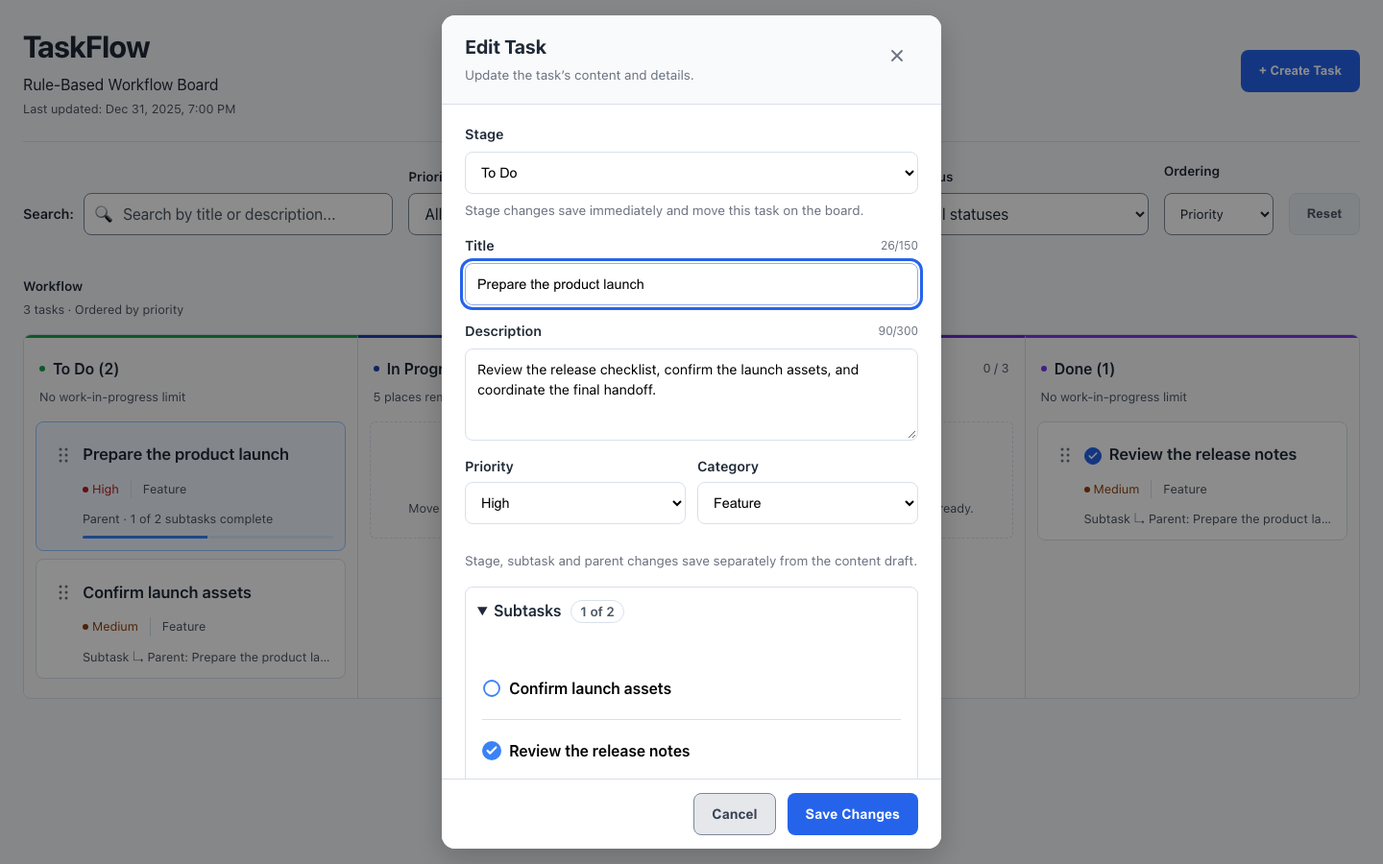
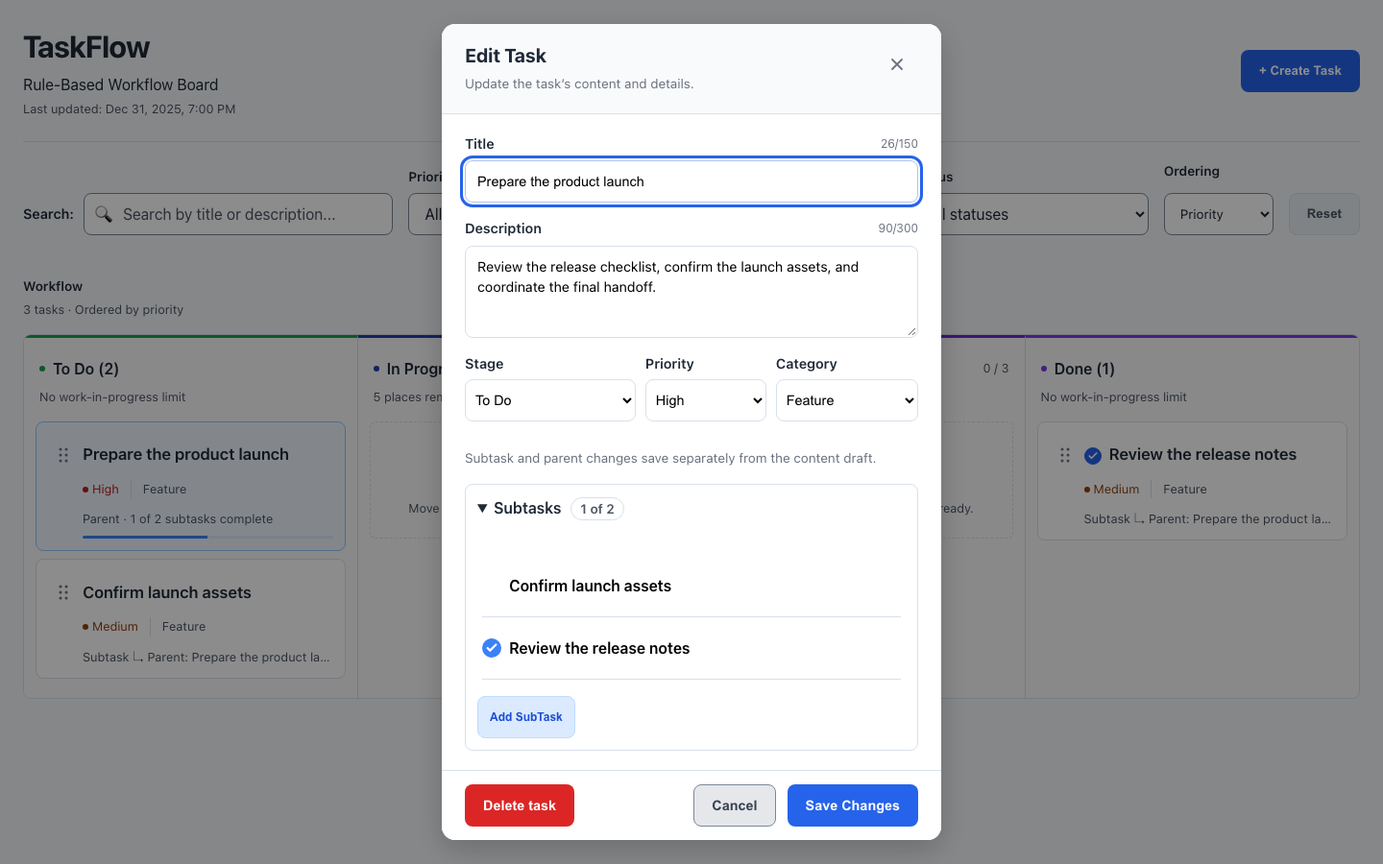
style: simplify task details and compact editor actions

Changed region(s): [[0.3125, 0.5289, 0.6875, 0.9956], [0.3125, 0.1556, 0.6875, 0.4667], [0.3125, 0.0, 0.6875, 0.1244]]

diff --git a/src/components/TaskDetails/TaskDetails.test.tsx b/src/components/TaskDetails/TaskDetails.test.tsx
@@ -72,23 +72,27 @@ it("shows the complete long child list without truncating relationship names", a
   expect(detail.getByRole("button",{name:`Open subtask Child 29 ${"x".repeat(130)}`})).toBeInTheDocument();
 });
 
-it("changes stages inside details, retains relationship rules and restores completion marks", async () => {
+it("changes stages in editing, retains relationship rules and restores completion marks", async () => {
   const user = userEvent.setup();
   render(<Harness tasks={[{...parent, status:"in-review"}, child]}/>);
   await user.click(screen.getByRole("button",{name:"Open task Release plan"}));
+  await user.click(screen.getByRole("button",{name:"Edit task"}));
   await user.selectOptions(screen.getByLabelText("Stage"),"done");
   expect(screen.getByLabelText("Stage")).toHaveValue("in-review");
-  expect(screen.getByRole("dialog",{name:"Release plan"})).toHaveTextContent("Finish these subtasks");
-  await user.click(screen.getByRole("button",{name:"Open subtask Review release"}));
+  expect(screen.getByRole("dialog",{name:"Edit Task"})).toHaveTextContent("Finish these subtasks");
+  await user.click(screen.getByRole("button",{name:"Close task editor"}));
+  await user.click(screen.getByRole("button",{name:"Open task Review release"}));
+  await user.click(screen.getByRole("button",{name:"Edit task"}));
   for(const stage of ["in-progress","in-review","done"]) await user.selectOptions(screen.getByLabelText("Stage"),stage);
   expect(screen.getByLabelText("Stage")).toHaveValue("done");
   await user.selectOptions(screen.getByLabelText("Stage"),"todo");
   expect(screen.getByLabelText("Stage")).toHaveValue("done");
   await user.click(screen.getByRole("button",{name:"Open parent Release plan"}));
   expect(screen.getByRole("img",{name:"Completed subtask"})).toHaveClass("is-complete");
+  await user.click(screen.getByRole("button",{name:"Edit task"}));
   await user.selectOptions(screen.getByLabelText("Stage"),"done");
   expect(screen.getByLabelText("Stage")).toHaveValue("done");
-  await user.click(screen.getByRole("button",{name:"Close task details"}));
+  await user.click(screen.getByRole("button",{name:"Close task editor"}));
   expect(screen.getByRole("article",{name:"Review release"}).querySelector(".completion-mark.is-complete")).toBeInTheDocument();
   expect(screen.queryByLabelText("Movement actions for Release plan")).not.toBeInTheDocument();
 });
@@ -104,16 +108,17 @@ it("the editor × keeps the same safe draft cancellation as Escape", async () =>
   await user.click(screen.getByRole("button",{name:"Discard"}));
   expect(screen.getByRole("button",{name:"Open task Release plan"})).toHaveFocus();
 });
-it("detail stage changes cannot bypass capacity when search hides the occupants", async () => {
+it("editor stage changes cannot bypass capacity when search hides the occupants", async () => {
   const user=userEvent.setup();
   const full=Array.from({length:5},(_,i)=>makeTask({id:`full-${i}`,title:`Occupant ${i}`,status:"in-progress"}));
   render(<Harness tasks={[parent,child,...full]}/>);
   await user.type(screen.getByLabelText("Search:"),"Review release");
   await user.click(screen.getByRole("button",{name:"Open task Review release"}));
+  await user.click(screen.getByRole("button",{name:"Edit task"}));
   await user.selectOptions(screen.getByLabelText("Stage"),"in-progress");
   expect(screen.getByLabelText("Stage")).toHaveValue("todo");
-  expect(screen.getByRole("dialog",{name:"Review release"})).toHaveTextContent("in-progress is full (5-task limit)");
-  await user.click(screen.getByRole("button",{name:"Close task details"}));
+  expect(screen.getByRole("dialog",{name:"Edit SubTask"})).toHaveTextContent("in-progress is full (5-task limit)");
+  await user.click(screen.getByRole("button",{name:"Close task editor"}));
   expect(screen.getByRole("region",{name:"in-progress (5)"})).toHaveTextContent("0 shown · 5 total");
 });
 
@@ -137,4 +142,18 @@ it("uses one parent badge in details and editing and moves from the editor witho
   expect(screen.getByLabelText("Title")).toHaveValue("Review release draft");
   await user.click(screen.getByRole("button",{name:"Save Changes"}));
   expect(within(screen.getByRole("region",{name:"in-progress (1)"})).getByRole("button",{name:"Open task Review release draft"})).toBeInTheDocument();
+});
+it("keeps details read-only, marks only completed children and groups editor controls/actions", async () => {
+  const user=userEvent.setup();render(<Harness tasks={[parent,child,makeTask({id:"finished",title:"Finished child",parentId:parent.id,status:"done"})]}/>);
+  await user.click(screen.getByRole("button",{name:"Open task Release plan"}));
+  const detail=within(screen.getByRole("dialog",{name:"Release plan"}));
+  expect(detail.queryByRole("combobox")).not.toBeInTheDocument();
+  expect(detail.getAllByRole("img",{name:"Completed subtask"})).toHaveLength(1);
+  expect(detail.queryByRole("img",{name:"Incomplete subtask"})).not.toBeInTheDocument();
+  await user.click(detail.getByRole("button",{name:"Edit task"}));
+  const editor=within(screen.getByRole("dialog",{name:"Edit Task"}));
+  expect(editor.getAllByRole("combobox").map(control=>(control as HTMLSelectElement).labels?.[0].textContent)).toEqual(["Stage","Priority","Category"]);
+  const footer=editor.getByRole("button",{name:"Save Changes"}).closest(".create-task-actions")!;
+  expect(within(footer as HTMLElement).getAllByRole("button").map(button=>button.textContent)).toEqual(["Delete task","Cancel","Save Changes"]);
+  expect(editor.queryByText("Stage changes save immediately and move this task on the board.")).not.toBeInTheDocument();
 });

diff --git a/e2e/details.spec.ts b/e2e/details.spec.ts
@@ -79,22 +79,27 @@ test("compact task creation keeps actions reachable and × protects an unfinishe
   }
 });
 
-test("stage selection lives in details, blocks incomplete parents and retains completed-child marks",async({page})=>{
+test("stage selection lives in editing, blocks incomplete parents and retains completed-child marks",async({page})=>{
   const parent=makeTask({id:"stage-parent",title:"Stage parent",status:"in-review"});
   const child=makeTask({id:"stage-child",title:"Stage child",parentId:parent.id});
   await page.goto("/");await page.evaluate(raw=>localStorage.setItem("taskflow-board",raw),currentBoardRaw(makeBoard([parent,child])));await page.reload();
   const stage=page.getByLabel("Workflow stage",{exact:true});if(await stage.count())await stage.selectOption("in-review");
   await page.getByRole("button",{name:"Open task Stage parent",exact:true}).click();
+  await page.getByRole("button",{name:"Edit task",exact:true}).click();
   await page.getByLabel("Stage",{exact:true}).selectOption("done");
   await expect(page.getByLabel("Stage",{exact:true})).toHaveValue("in-review");
-  await expect(page.getByRole("dialog",{name:"Stage parent",exact:true})).toContainText("Finish these subtasks");
-  await page.getByRole("button",{name:"Open subtask Stage child",exact:true}).click();
+  await expect(page.getByRole("dialog",{name:"Edit Task",exact:true})).toContainText("Finish these subtasks");
+  await page.getByRole("button",{name:"Close task editor",exact:true}).click();
+  if(await stage.count())await stage.selectOption("todo");
+  await page.getByRole("button",{name:"Open task Stage child",exact:true}).click();
+  await page.getByRole("button",{name:"Edit task",exact:true}).click();
   for(const status of ["in-progress","in-review","done"])await page.getByLabel("Stage",{exact:true}).selectOption(status);
   await page.getByRole("button",{name:"Open parent Stage parent",exact:true}).click();
   await expect(page.getByRole("img",{name:"Completed subtask",exact:true})).toHaveClass(/is-complete/);
+  await page.getByRole("button",{name:"Edit task",exact:true}).click();
   await page.getByLabel("Stage",{exact:true}).selectOption("done");
   await expect(page.getByLabel("Stage",{exact:true})).toHaveValue("done");
-  await page.getByRole("button",{name:"Close task details",exact:true}).click();
+  await page.getByRole("button",{name:"Close task editor",exact:true}).click();
   await expect(page.locator(".task-movement-actions")).toHaveCount(0);
   await page.reload();if(await stage.count())await stage.selectOption("done");
   await expect(page.getByRole("button",{name:"Open task Stage child",exact:true}).locator(".completion-mark.is-complete")).toHaveCount(1);
@@ -130,4 +135,33 @@ test("parent context is consistent and editor stage changes move saved work with
   await expect(page.getByRole("group",{name:"Move task Edited consistent child, in-progress",exact:true})).toBeVisible();
   await page.reload();const stage=page.getByLabel("Workflow stage",{exact:true});if(await stage.count())await stage.selectOption("in-progress");
   await expect(page.getByRole("group",{name:"Move task Edited consistent child, in-progress",exact:true})).toBeVisible();
+});
+
+test("read-only details and compact editor rows remain aligned on desktop and narrow mobile",async({page})=>{
+  const parent=makeTask({id:"row-parent",title:"Aligned parent"});
+  const child=makeTask({id:"row-child",title:"Pending child",parentId:parent.id});
+  const done=makeTask({id:"row-done",title:"Finished child",parentId:parent.id,status:"done"});
+  await page.goto("/");await page.evaluate(raw=>localStorage.setItem("taskflow-board",raw),currentBoardRaw(makeBoard([parent,child,done])));await page.reload();
+  for(const [width,height] of [[1440,900],[390,844],[375,667],[320,568]]) {
+    await page.setViewportSize({width,height});
+    await page.getByRole("button",{name:"Open task Aligned parent",exact:true}).click();
+    const detail=page.getByRole("dialog",{name:"Aligned parent",exact:true});
+    await expect(detail.getByRole("combobox")).toHaveCount(0);
+    await expect(detail.getByRole("img",{name:"Completed subtask",exact:true})).toHaveCount(1);
+    await expect(detail.getByRole("img",{name:"Incomplete subtask",exact:true})).toHaveCount(0);
+    await expect(detail.locator(".completion-placeholder")).toHaveCount(1);
+    await detail.getByRole("button",{name:"Edit task",exact:true}).click();
+    const editor=page.getByRole("dialog",{name:"Edit Task",exact:true});
+    const fields=editor.locator(".task-form-select-row select");
+    await expect(fields).toHaveCount(3);
+    const fieldRects=await fields.evaluateAll(nodes=>nodes.map(node=>({top:node.getBoundingClientRect().top,right:node.getBoundingClientRect().right})));
+    expect(Math.max(...fieldRects.map(r=>r.top))-Math.min(...fieldRects.map(r=>r.top))).toBeLessThan(1);
+    expect(fieldRects.every(rect=>rect.right<=width)).toBe(true);
+    const buttons=editor.locator(".create-task-actions button");await expect(buttons).toHaveText(["Delete task","Cancel","Save Changes"]);
+    const tops=await buttons.evaluateAll(nodes=>nodes.map(node=>node.getBoundingClientRect().top));
+    expect(Math.max(...tops)-Math.min(...tops)).toBeLessThan(1);
+    await expect(editor.getByText("Stage changes save immediately and move this task on the board.",{exact:true})).toHaveCount(0);
+    await editor.getByRole("button",{name:"Close task editor",exact:true}).click();
+    expect(await page.evaluate(()=>document.documentElement.scrollWidth<=innerWidth)).toBe(true);
+  }
 });

diff --git a/src/components/TaskDetails/TaskDetails.tsx b/src/components/TaskDetails/TaskDetails.tsx
@@ -1,5 +1,5 @@
 import { useId, useRef, useState, type ReactNode } from "react";
-import { taskStatuses, type TaskStatus, type Task } from "../../domain/task/Task";
+import { type TaskStatus, type Task } from "../../domain/task/Task";
 import { findTask, getChildren, getChildProgress, getParent } from "../../domain/board/taskRelationships";
 import { useModalFocus } from "../../accessibility/useModalFocus";
 import TaskForm, { type TaskFormProps } from "../TaskForm/TaskForm";
@@ -10,7 +10,6 @@ import "../TaskForm/TaskForm.css";
 import "./TaskDetails.css";
 import CloseButton from "../ui/CloseButton/CloseButton";
 import CompletionMark from "../ui/CompletionMark/CompletionMark";
-import { isTaskStatus } from "../../utils/typeGuards";
 import type { BoardOperationError } from "../../domain/board/boardValidation";
 
 const stages = { todo: "To Do", "in-progress": "In Progress", "in-review": "In Review", done: "Done" };
@@ -20,7 +19,6 @@ export default function TaskDetails(props: TaskFormProps & { task: Task; onChang
   const { board, onClose, onOpenTask, onDelete, dispatch } = props;
   const task = findTask(board, props.task.id) ?? props.task;
   const [view, setView] = useState<"details" | "edit" | "child">("details");
-  const [stageError, setStageError] = useState<string | null>(null);
   const id = useId();
   const ref = useRef<HTMLDivElement>(null);
   useModalFocus(ref, onClose, view === "details");
@@ -37,20 +35,16 @@ export default function TaskDetails(props: TaskFormProps & { task: Task; onChang
           </header>
           <div className="task-details-content">
             <dl className="task-details-metadata">
-              <div><dt><label htmlFor={`${id}-stage`}>Stage</label></dt><dd><select id={`${id}-stage`} className={`detail-stage-select stage-${task.status}`} value={task.status} aria-invalid={!!stageError || undefined} aria-describedby={`${id}-stage-note${stageError ? ` ${id}-stage-error` : ""}`} onChange={event => {
-                if (isTaskStatus(event.target.value)) setStageError(props.onChangeStage(task, event.target.value)?.message ?? null);
-              }}>{taskStatuses.map(status => <option key={status} value={status}>{stages[status]}</option>)}</select></dd></div>
+              <div><dt>Stage</dt><dd><span className={`task-status-pill stage-${task.status}`}>{stages[task.status]}</span></dd></div>
               <div><dt>Priority</dt><dd className={`detail-priority priority-${task.priority}`}>{task.priority[0].toUpperCase() + task.priority.slice(1)}</dd></div>
               <div><dt>Category</dt><dd>{categories[task.category]}</dd></div>
             </dl>
-            <p id={`${id}-stage-note`} className="task-details-muted detail-stage-note">Changes save immediately. Move through stages in order.</p>
-            {stageError && <p id={`${id}-stage-error`} className="form-error">{stageError}</p>}
             {props.orderingActions && <section className="detail-order-actions" aria-label="Task order">{props.orderingActions(task)}</section>}
             <section aria-labelledby={`${id}-description`}><h3 id={`${id}-description`}>Description</h3><p className="task-details-description">{task.description}</p></section>
             {!parent && <section aria-labelledby={`${id}-relationships`}>
               <h3 id={`${id}-relationships`}>Related work</h3>
               {!parent && <p className="task-details-muted">{task.parentId ? "Parent unavailable" : "Independent task"}</p>}
-              {children.length > 0 && <><p>{progress.completed} of {progress.total} subtasks complete</p><progress aria-label={`Subtask completion for ${task.title}`} value={progress.completed} max={progress.total}/><ul className="task-details-children">{children.map(child => <li key={child.id}><CompletionMark complete={child.status === "done"}/><button className="relationship-link" aria-label={`Open subtask ${child.title}`} onClick={() => onOpenTask(child)}>{child.title}</button><span>{stages[child.status]}</span></li>)}</ul></>}
+              {children.length > 0 && <><p>{progress.completed} of {progress.total} subtasks complete</p><progress aria-label={`Subtask completion for ${task.title}`} value={progress.completed} max={progress.total}/><ul className="task-details-children">{children.map(child => <li key={child.id}>{child.status === "done" ? <CompletionMark complete/> : <span className="completion-placeholder" aria-hidden="true"/>}<button className="relationship-link" aria-label={`Open subtask ${child.title}`} onClick={() => onOpenTask(child)}>{child.title}</button><span>{stages[child.status]}</span></li>)}</ul></>}
               {!task.parentId && task.status !== "done" && <Button id={`${id}-child`} variant="secondary" aria-label={`Add SubTask to ${task.title}`} onClick={() => setView("child")}>Add SubTask</Button>}
               {task.status === "done" && !task.parentId && <p className="task-details-muted">Completed tasks cannot accept new subtasks.</p>}
             </section>}

diff --git a/src/components/TaskForm/TaskForm.tsx b/src/components/TaskForm/TaskForm.tsx
@@ -218,15 +218,6 @@ export default function TaskForm({
           </header>
           <div className="task-form-content">
 
-          {currentTask && onChangeStage ? <Field controlId={`${fieldPrefix}-stage`} label="Stage">
-            <select id={`${fieldPrefix}-stage`} value={currentTask.status} aria-invalid={invalidField === "stage" || undefined} aria-describedby={`${fieldPrefix}-stage-note${invalidField === "stage" ? ` ${fieldPrefix}-error` : ""}`} onChange={event => {
-              if (!isTaskStatus(event.target.value)) return;
-              const failure = onChangeStage(currentTask, event.target.value);
-              if (failure) fail("stage", failure.message);
-              else { setError(""); setInvalidField(null); }
-            }}>{taskStatuses.map(status => <option key={status} value={status}>{statusLabels[status]}</option>)}</select>
-            <small id={`${fieldPrefix}-stage-note`} className="task-form-stage-note">Stage changes save immediately and move this task on the board.</small>
-          </Field> : currentTask && <span className={`task-status-pill stage-${currentTask.status}`}>{statusLabels[currentTask.status]}</span>}
 
           {error && (notification ? (
             <Notification key={notification.id} notification={notification}
@@ -277,7 +268,15 @@ export default function TaskForm({
             </small>
           </Field>
 
-          <div className="task-form-select-row">
+          <div className={`task-form-select-row${currentTask && onChangeStage ? " has-stage" : ""}`}>
+          {currentTask && onChangeStage ? <div className="task-form-field"><label htmlFor={`${fieldPrefix}-stage`}>Stage</label>
+            <select id={`${fieldPrefix}-stage`} value={currentTask.status} aria-invalid={invalidField === "stage" || undefined} aria-describedby={invalidField === "stage" ? `${fieldPrefix}-error` : undefined} onChange={event => {
+              if (!isTaskStatus(event.target.value)) return;
+              const failure = onChangeStage(currentTask, event.target.value);
+              if (failure) fail("stage", failure.message);
+              else { setError(""); setInvalidField(null); }
+            }}>{taskStatuses.map(status => <option key={status} value={status}>{statusLabels[status]}</option>)}</select>
+          </div> : null}
             <div className="task-form-field">
               <label htmlFor={`${fieldPrefix}-priority`}>Priority</label>
 
@@ -318,7 +317,7 @@ export default function TaskForm({
             </div>
           </div>
 
-          {currentTask && <p className="task-form-relationship-note">Stage, subtask and parent changes save separately from the content draft.</p>}
+          {currentTask && <p className="task-form-relationship-note">Subtask and parent changes save separately from the content draft.</p>}
           {currentTask && !isSubtask && (children.length > 0 ? (
             <section className="task-editor-subtasks" aria-label="Subtasks">
               <details open>
@@ -334,11 +333,7 @@ export default function TaskForm({
                           <svg width="14" height="14" viewBox="0 0 16 16" aria-hidden="true">
                             <path d="M3 8l3 3 7-7" fill="none" stroke="currentColor" strokeWidth="2.5" strokeLinecap="round" strokeLinejoin="round" />
                           </svg>
-                        ) : (
-                          <svg width="20" height="20" viewBox="0 0 20 20" aria-hidden="true">
-                            <circle cx="10" cy="10" r="8" fill="none" stroke="currentColor" strokeWidth="1.8" />
-                          </svg>
-                        )}
+                        ) : null}
                       </span>
                       <button type="button" className="relationship-link subtask-title" onClick={() => setSubtaskEditor({ type: "edit", task: child })} aria-label={`Open subtask ${child.title}`}>
                         {child.title}
@@ -366,9 +361,10 @@ export default function TaskForm({
           )}
 
           {currentTask && currentTask.subtasks.length > 0 && <details className="task-editor-subtasks"><summary>Legacy checklist ({currentTask.subtasks.length})</summary><SubtaskList task={currentTask} dispatch={dispatch} allowCreate={currentTask.status !== "done"}/></details>}
-          {currentTask && onDelete && <div className="editor-danger-area"><Button variant="danger" aria-label={`Delete ${currentTask.title}`} onClick={() => onDelete(currentTask.id)}>Delete task</Button></div>}
+
           </div>
           <div className="create-task-actions">
+            {currentTask && onDelete && <Button className="editor-delete-action" variant="danger" aria-label={`Delete ${currentTask.title}`} onClick={() => onDelete(currentTask.id)}>Delete task</Button>}
             <Button variant="secondary" onClick={handleRequestClose}>
               Cancel
             </Button>

diff --git a/src/components/TaskDetails/TaskDetails.css b/src/components/TaskDetails/TaskDetails.css
@@ -30,12 +30,10 @@
   .task-details-children li { flex-wrap: wrap; padding: var(--space-2) 0; }
 }
 @media (max-height: 450px) { .task-details-header { padding: var(--space-3); } .task-details-panel { height: 100dvh; } }
-.detail-stage-select { width: 100%; max-width: 180px; min-height: var(--size-touch-target); border: 1px solid var(--color-border); border-radius: var(--radius-control); padding: 8px 28px 8px 10px; color: var(--color-text-primary); background: var(--color-surface-subtle); font: inherit; cursor: pointer; }
-.detail-stage-select:focus-visible { outline: var(--focus-ring); outline-offset: var(--focus-offset); }
-.task-details-content .detail-stage-note { margin-top: calc(-1 * var(--space-4)); font-size: var(--font-size-support); }
 .detail-order-actions { display: flex; flex-wrap: wrap; gap: var(--space-2); }
 .detail-order-actions p { width: 100%; font-size: var(--font-size-support); color: var(--color-text-muted); }
 .task-details-metadata { align-items: start; }
 .task-details-metadata dd { min-height: var(--size-touch-target); display: flex; align-items: center; }
 .task-details-children .relationship-link { color: var(--color-text-primary); text-decoration: none; }
 .task-details-children .relationship-link:hover, .task-details-children .relationship-link:focus-visible { color: var(--color-action-subtle-text); text-decoration: underline; }
+.completion-placeholder { display: inline-block; flex-shrink: 0; width: 18px; height: 18px; }

diff --git a/src/components/TaskForm/TaskForm.css b/src/components/TaskForm/TaskForm.css
@@ -155,7 +155,6 @@
 }
 
 /* Interim deletion entry while #45 owns the read-first detail redesign. */
-.editor-danger-area { margin-top: var(--space-5); padding-top: var(--space-4); border-top: var(--border-width) solid var(--color-border); }
 
 /* Focused drafting surface; relationships remain secondary to task content. */
 .task-form-heading { border-bottom: 1px solid var(--color-border); padding-bottom: var(--space-4); margin-bottom: var(--space-2); }
@@ -195,4 +194,14 @@
   .task-editor-dialog .task-form-heading p { display: none; }
   .task-editor-dialog .create-task-actions { padding: 8px 16px; }
 }
-.task-form-stage-note { color: var(--color-text-muted); font-size: var(--font-size-support); line-height: 1.5; }
+
+.task-editor-dialog .task-form-select-row.has-stage { grid-template-columns: 1.2fr .85fr 1fr; gap: 10px; }
+.task-editor-dialog .has-stage select { padding: 8px 6px; }
+.task-editor-dialog .editor-delete-action { margin-right: auto; }
+@media (max-width: 600px) {
+  .task-editor-dialog .task-form-select-row.has-stage { gap: 6px; }
+  .task-editor-dialog .has-stage select { font-size: .8rem; padding: 8px 2px; }
+  .task-editor-dialog .create-task-actions { gap: 6px; flex-wrap: nowrap; }
+  .task-editor-dialog .create-task-actions > button { flex: 0 1 auto; padding: 8px; font-size: .8rem; white-space: nowrap; }
+  .task-editor-dialog .create-task-actions > button:last-child { margin-left: auto; }
+}

diff --git a/e2e/board.spec.ts b/e2e/board.spec.ts
@@ -26,8 +26,9 @@ test("explicit stage actions work without dragging and preserve focus and saved 
   const parent=makeTask({id:"parent",title:"Release parent"});const child=makeTask({id:"child",title:"Linked child",parentId:parent.id});
   await seed(page,currentBoardRaw(makeBoard([parent,child])));
   await page.getByRole("button",{name:"Open task Linked child",exact:true}).click();
+  await page.getByRole("button",{name:"Edit task",exact:true}).click();
   await page.getByLabel("Stage",{exact:true}).selectOption("in-progress");
-  await page.getByRole("button",{name:"Close task details",exact:true}).click();
+  await page.getByRole("button",{name:"Close task editor",exact:true}).click();
   await expect(page.getByRole("button",{name:"Open task Linked child",exact:true})).toBeFocused();
   const saved=await page.evaluate(()=>JSON.parse(localStorage.getItem("taskflow-board")!).board);
   expect(saved.columns[1].tasks[0]).toMatchObject({id:"child",parentId:"parent",status:"in-progress"});

diff --git a/src/components/Board/Board.presentation.test.tsx b/src/components/Board/Board.presentation.test.tsx
@@ -58,8 +58,9 @@ it("provides a single mobile stage, explicit movement and continued focus withou
   const user=userEvent.setup();render(<Harness tasks={[makeTask({title:"Mobile work"})]}/>);
   expect(within(screen.getByRole("region",{name:"Workflow columns"})).getAllByRole("heading",{level:2})).toHaveLength(1);
   await user.click(screen.getByRole("button",{name:"Open task Mobile work"}));
+  await user.click(screen.getByRole("button",{name:"Edit task"}));
   await user.selectOptions(screen.getByLabelText("Stage"),"in-progress");
-  await user.click(screen.getByRole("button",{name:"Close task details"}));
+  await user.click(screen.getByRole("button",{name:"Close task editor"}));
   expect(screen.getByLabelText("Workflow stage")).toHaveValue("in-progress");
   expect(screen.getByRole("button",{name:"Open task Mobile work"})).toHaveFocus();
   await user.selectOptions(screen.getByLabelText("Workflow stage"),"done");

diff --git a/docs/v2-task-details.md b/docs/v2-task-details.md
@@ -9,15 +9,15 @@ Issue #45 completes the detail boundary left by #44. Board titles open a read-fi
 - Child navigation/creation remains in details and editing; Manage Parent is available only in editing. The parent badge uses the same component directly below the header title in both views. Children sort oldest first and retain full titles and textual stages. Child creation inherits parent priority/category, saves independently and returns to refreshed parent details with focus on Add SubTask. Editor child operations preserve an unfinished parent draft. A note explicitly explains that related work saves separately.
 - Escape and Cancel protect dirty content and parent-selection drafts with a discard confirmation. Keep Editing retains the draft/selection and restores focus. Dirty task and relationship forms register a native beforeunload guard and remove it on cleanup; browsers control whether a page-leaving prompt is shown. No automatic draft persistence or history routing is introduced.
 - Deletion remains explicit in details and the editor, with the existing safe default confirmation. Parent deletion explains that children survive independently. Draft-discard consequences remain in deletion copy. Cancellation restores the destructive action trigger; successful deletion focuses surviving work.
-- Completed parents cannot create new children. Existing legacy checklists remain distinguishable and manageable with their existing domain policies. Stage changes use the labeled selector in task/subtask details and editing, while retaining the shared validated movement operation. Dragging remains available on the board.
+- Completed parents cannot create new children. Existing legacy checklists remain distinguishable and manageable with their existing domain policies. Stage changes use the labeled selector in task/subtask editing; details show a stage badge, while retaining the shared validated movement operation. Dragging remains available on the board.
 
 `TaskDetails` owns presentation mode only. `TaskForm` retains content drafts; `TaskRelationshipForm` retains its parent selection. Board dispatch/validation, relationship selectors, capacity, ordering, notifications, storage and schema are unchanged. The shared modal focus/isolation hook is reused. The hidden details container has no dialog role or content while another view is active, preventing duplicate dialog/label queries.
 
 ## Verification and review
 
-- Full unit/component baseline: **466 tests in 43 files** passed.
-- Full production-browser baseline: **44 Chromium checks** passed across desktop and mobile projects.
-- The reviewed implementation passed the full unit/component suite (466/466) and full production-browser suite (44/44). Final metadata alignment was also checked with the long-content desktop/mobile browser journeys. The initial #45 implementation had one existing 5000ms family-completion timeout in an overlapping component/browser run; sequential full verification passed without timeout/configuration changes.
+- Full unit/component baseline: **467 tests in 43 files** passed.
+- Full production-browser baseline: **46 Chromium checks** passed across desktop and mobile projects.
+- The reviewed implementation passed the full unit/component suite (467/467) and full production-browser suite (46/46). Final metadata alignment was also checked with the long-content desktop/mobile browser journeys. The initial #45 implementation had one existing 5000ms family-completion timeout in an overlapping component/browser run; sequential full verification passed without timeout/configuration changes.
 - Lint, strict TypeScript checking and production build passed.
 - New coverage verifies read-first entry, related navigation, explicit editing, validation focus, unsaved-content/relationship cancellation, refresh guards, child creation, updated progress, deletion cancellation and focus return.
 - Browser containment/reachability checks use 150-character titles, 300-character descriptions and 30-child lists at 1440×900, 768×1024, 390×844, 375×667, 320×568, 375×300 and 844×390. All child rows and Save Changes remain reachable without page-level horizontal overflow. Existing lifecycle, movement, migration/recovery and preferences browser coverage also passes.
@@ -45,3 +45,11 @@ Follow-up review aligned the parent badge beneath the title area in both details
 The editor now provides Stage for every existing task/subtask, including nested subtask editors. Stage changes save immediately through the same Board movement callback as details and update the board/mobile destination stage. Text and metadata drafts remain untouched until Save Changes. A failed move preserves both the current stage and any content draft, associates the error with Stage and focuses that control. The helper text makes this separate-save behavior explicit. Existing workflow/capacity/parent-completion rules are retained.
 
 Consistency verification: 466 unit/component tests in 43 files and 44 Chromium browser checks passed, including identical badge styling, editor-only parent management, hover/focus child links, immediate editor stage movement with draft preservation, rejection and refresh. Lint, strict TypeScript and production build passed. [Mobile subtask details](images/v2-task-details/mobile-subtask-details.png) · [Mobile subtask editor](images/v2-task-details/mobile-subtask-editor.png) · [Desktop subtask details](images/v2-task-details/desktop-subtask-details.png) · [Desktop subtask editor](images/v2-task-details/desktop-subtask-editor.png).
+
+## Final control-layout review
+
+Details are read-only for Stage; only the editor provides the selector. The editor groups Stage, Priority and Category in that order on one compact row. Creation retains its two metadata fields. The stage helper sentence is removed. Delete task shares the fixed footer row with Cancel and Save Changes, including narrow mobile widths. Existing confirmation and draft protection are retained.
+
+Only completed child tasks render a blue checkmark in parent lists. Incomplete children retain blank alignment space, without an empty circle, in both details and editing. Stage changes in editing still use the shared validated movement operation and persist immediately; the domain rules, data model and content-draft behavior are unchanged.
+
+Final layout verification: 467 unit/component tests in 43 files passed; the final affected component checks passed 30/30. The focused details browser checks passed 12/12 and the full production Chromium suite passed 46/46. New layout assertions verify read-only details, only completed child marks, one dropdown row and one three-button footer row at 1440, 390, 375 and 320px, with no page-level overflow. Lint, strict TypeScript, production build and diff checks passed. Screenshots above were refreshed from the final production build.
